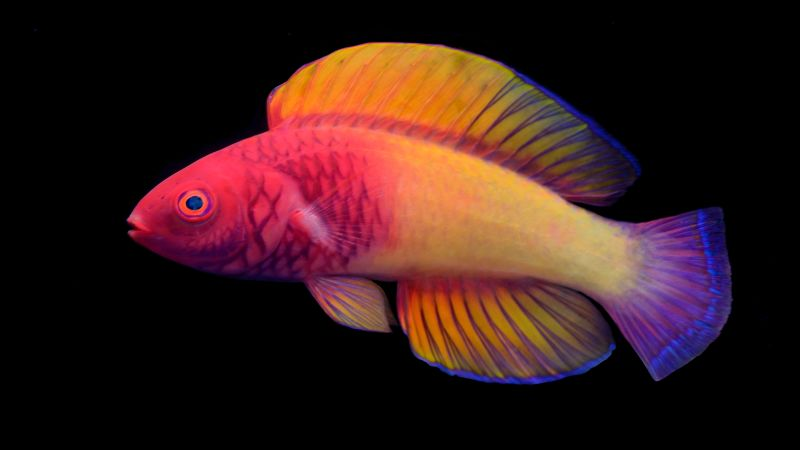
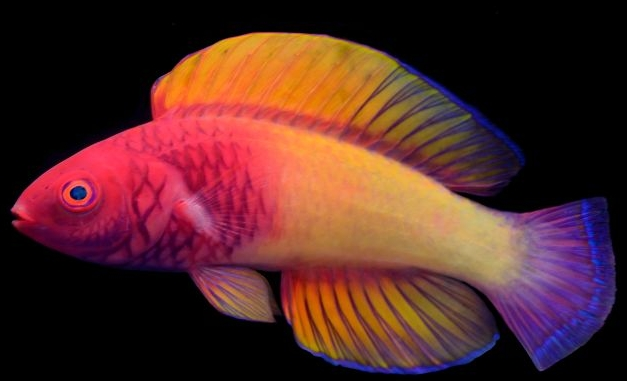
feat(loading_screen)

diff --git a/src/loading_screen.c b/src/loading_screen.c
@@ -1,0 +1,29 @@
+/*
+** EPITECH PROJECT, 2023
+** rpg
+** File description:
+** loading_screen
+*/
+
+#include "rpg.h"
+
+void loading_screen(rpg_t *rpg, loading_t *loading,
+    int pourcentage, int next)
+{
+    sprite_t *sprite = loading->fishs[loading->fish];
+
+    sfRenderWindow_clear(rpg->win->win, sfBlack);
+    sfSprite_setPosition(sprite->sp,
+        (VEC){1920 / 2, 1080 / 2});
+    sfSprite_setTextureRect(sprite->sp,
+        (sfIntRect){0, 0, pourcentage * sprite->size.x / 100,
+        sprite->size.y});
+    sfRenderWindow_drawSprite(rpg->win->win,
+        sprite->sp, NULL);
+    sfRenderWindow_display(rpg->win->win);
+    usleep(100000);
+    if (next == 1)
+        loading->fish += 1;
+    if (loading->fish == loading->nb_fish)
+        loading->fish = 0;
+}

diff --git a/src/init/init_loading.c b/src/init/init_loading.c
@@ -15,18 +15,19 @@ static sprite_t **init_fishs(int nb)
         return NULL;
     for (int i = 0; i < nb; fishs[i] = NULL, i++);
     fishs[0] = init_sprite("assets/loading/fish_0.jpg",
-        (VEC){800, 450}, 1, 1);
+        (VEC){627, 381}, 1, 1);
     return fishs;
 }
 
-loading_t *init_loading(void)
+void init_loading(rpg_t *rpg)
 {
     loading_t *loading = malloc(sizeof(loading_t));
 
     if (loading == NULL)
-        return NULL;
+        rpg->loading = NULL;
     loading->nb_fish = 1;
     loading->fish = 0;
     loading->fishs = init_fishs(1);
-    return loading;
+    rpg->loading = loading;
+    loading_screen(rpg, rpg->loading, 20, 1);
 }

diff --git a/src/init/init_player.c b/src/init/init_player.c
@@ -7,12 +7,12 @@
 
 #include "rpg.h"
 
-player_t *init_player(asset_t *asset)
+void init_player(asset_t *asset, rpg_t *rpg)
 {
     player_t *player = malloc(sizeof(player_t));
 
     if (player == NULL)
-        return NULL;
+        rpg->player = NULL;
     player->pos = (VEC){500, 500};
     player->rect = (sfFloatRect){0};
     player->time = sfClock_create();
@@ -20,5 +20,7 @@ player_t *init_player(asset_t *asset)
     player->size = asset->player->size.x;
     player->nb_frame = asset->player->nb_frame;
     player->cd_frame = 0.2f;
-    return player;
+    rpg->player = player;
+    loading_screen(rpg, rpg->loading, 80, 1);
+
 }

diff --git a/src/init/init_puzzle.c b/src/init/init_puzzle.c
@@ -16,15 +16,17 @@ static sfFloatRect *init_colliders(void)
     return colliders;
 }
 
-puzzle_t *init_puzzle(void)
+void init_puzzle(rpg_t *rpg)
 {
     puzzle_t *puzzle = malloc(sizeof(puzzle_t));
 
     if (puzzle == NULL)
-        return NULL;
+        rpg->puzzle = NULL;
     puzzle->nb_colliders = 0;
     puzzle->colliders = NULL;
     puzzle->nb_colliders = 1;
     puzzle->colliders = init_colliders();
-    return puzzle;
+    rpg->puzzle = puzzle;
+    loading_screen(rpg, rpg->loading, 40, 1);
+
 }

diff --git a/src/init/init_win.c b/src/init/init_win.c
@@ -7,18 +7,18 @@
 
 #include "rpg.h"
 
-win_t *init_win(void)
+void init_win(rpg_t *rpg)
 {
     win_t *win = malloc(sizeof(win_t));
     sfEvent event = {0};
 
     if (win == NULL)
-        return NULL;
+        rpg->win = NULL;
     win->win = sfRenderWindow_create((sfVideoMode){1920, 1080, 32},
         "THE RPG", sfFullscreen, NULL);
     win->event = event;
     win->time = sfClock_create();
     win->deltaT = 0;
     win->scene = LOADING;
-    return win;
+    rpg->win = win;
 }

diff --git a/src/rpg.c b/src/rpg.c
@@ -11,10 +11,11 @@ int rpg(void)
 {
     int ret = 0;
     rpg_t *rpg = init_rpg();
-    rpg->win = init_win();
-    rpg->puzzle = init_puzzle();
-    rpg->asset = init_asset();
-    rpg->player = init_player(rpg->asset);
+    init_win(rpg);
+    init_loading(rpg);
+    init_puzzle(rpg);
+    init_asset(rpg);
+    init_player(rpg->asset, rpg);
     ret = main_loop(rpg->win, rpg);
     return ret;
 }

diff --git a/src/init/init_asset.c b/src/init/init_asset.c
@@ -7,12 +7,14 @@
 
 #include "rpg.h"
 
-asset_t *init_asset(void)
+void init_asset(rpg_t *rpg)
 {
     asset_t *asset = malloc(sizeof(asset_t));
 
     if (asset == NULL)
-        return NULL;
+        rpg->asset = NULL;
     asset->player = init_sprite("assets/player/run.png", (VEC){32, 32}, 6, 3);
-    return asset;
+    rpg->asset = asset;
+    loading_screen(rpg, rpg->loading, 60, 1);
+
 }

diff --git a/include/loading.h b/include/loading.h
@@ -18,7 +18,9 @@
         int fish;
     } loading_t;
 
-    loading_t *init_loading(void);
-    void loading_screen(void);
+    void loading_screen(rpg_t *rpg, loading_t *loading,
+        int pourcentage, int next);
+
+    void init_loading(rpg_t *rpg);
 
 #endif /* !LOADING_H_ */

diff --git a/include/player.h b/include/player.h
@@ -22,7 +22,7 @@
         float cd_frame;
     } player_t;
 
-    player_t *init_player(asset_t *asset);
+    void init_player(asset_t *asset, rpg_t *rpg);
 
     void manage_player(win_t *win, player_t *player, rpg_t *rpg);
 

diff --git a/include/asset.h b/include/asset.h
@@ -23,7 +23,7 @@
         sprite_t *player;
     } asset_t;
 
-    asset_t *init_asset(void);
+    void init_asset(rpg_t *rpg);
     sprite_t *init_sprite(char *path,
         sfVector2f size, int nb_frame, int scale);
 

diff --git a/include/rpg.h b/include/rpg.h
@@ -31,6 +31,7 @@
         puzzle_t *puzzle;
         asset_t *asset;
         player_t *player;
+        loading_t *loading;
     } rpg_t;
 
     int rpg(void);

diff --git a/include/puzzle.h b/include/puzzle.h
@@ -17,6 +17,6 @@
         int nb_colliders;
     } puzzle_t;
 
-    puzzle_t *init_puzzle(void);
+    void init_puzzle(rpg_t *rpg);
 
 #endif /* !PUZZLE_H_ */
